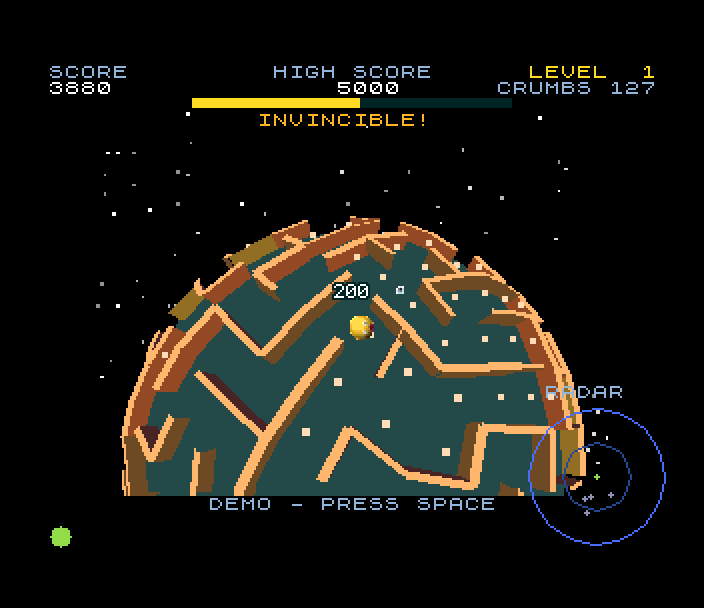
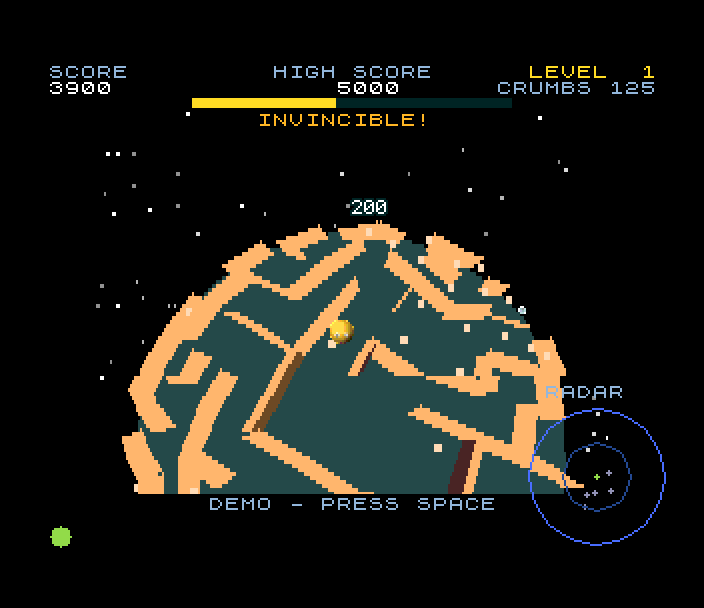
Planet Chomp: the level-1 maze the test checks is in gfx/level1.txt (checked in; build/ isn't in a fresh checkout); README, PROGRESS, docs for the speed pass; screenshots and GIF remade

diff --git a/projects/planet_chomp/README.md b/projects/planet_chomp/README.md
@@ -67,6 +67,12 @@ Changed (marked `port:` in the code):
   normal through the camera). A crumb sits between two corners across its
   cell, 3/4 of the way up the walls (0.56 instead of 0.5). The screen is
   256 x 192, the original's 320 x 240 at 0.8.
+- **Speed.** The view is drawn 96 rows high and the copper shows each row
+  twice. Only cells within ~70 degrees of the camera are drawn (the
+  original draws up to the horizon; the planet's rim shows bare ground).
+  A wall at most a pixel thick on screen is one quad in the top's colour
+  instead of a side and a top. The planet's disc sits in a background copy
+  of the starfield, redrawn only when the camera's height changes.
 - **Sprites in front.** The chomper, spooks and keys are hardware sprites,
   always over the walls (the original sorts them in). Sizes come from 10
   pre-scaled sizes, 4 to 28 pixels.
@@ -85,23 +91,42 @@ What it uses beyond a 48K/128K Spectrum, and why:
 
 | feature | used for | why it's needed |
 |---|---|---|
-| **28 MHz and the Z80N `MUL`** | the original's rules (50 steps a second of 16 x 16 -> 32 vector maths and square roots), the 3D transform of ~120-200 corners a frame (8 x 8 `MUL`s against a Q7 camera matrix patched into the code), the polygon edges' slopes | the corner transform alone takes ~380 raster lines a frame at 28 MHz, more than a whole frame at 3.5 MHz; the logic ~40 lines a step |
+| **28 MHz and the Z80N `MUL`** | the original's rules (50 steps a second of 16 x 16 -> 32 vector maths and square roots), the 3D transform of ~120-200 corners a frame (8 x 8 `MUL`s against a Q7 camera matrix patched into the code), the polygon edges' slopes | the corner transform alone takes ~325 raster lines a frame at 28 MHz, more than a whole frame at 3.5 MHz; the logic ~40 lines a step |
 | **Layer 2, 256 x 192 x 8 bpp, double buffered** | the planet, the maze's walls (8 shades), crumbs, the nest, the stars, in the original's colours | filled polygons in many colours anywhere; the ULA's two colours per 8 x 8 cell can't show shaded walls over a planet |
-| **zxnDMA** | each frame starts as a DMA copy of the starfield (48K in about 10 raster lines); the sprites' patterns are sent by DMA when an actor's texture or size changes | a CPU copy would take a frame by itself |
+| **zxnDMA** | each frame starts as a DMA copy of the background, the starfield and the planet's disc (24K in about 6 raster lines); the sprites' patterns are sent by DMA when an actor's texture or size changes | a CPU copy would take a frame by itself |
 | **hardware sprites** (64 patterns, 70 sprites) | the chomper, spooks, keys (16 x 16 or 32 x 32 quads, patterns streamed from 10 banks of pre-scaled frames), the score popups, the radar's dots, the lives | moving things never touch the Layer 2 picture, and scaling them by depth is a pattern swap |
 | **tilemap** (40 x 32, 4 bpp, over everything) | the HUD, the radar's rings, the power bar, the title, game over, the high scores and the initials, in the original's 320 x 256 layout including the border | text and HUD never have to be drawn into or restored from the 3D picture |
 | **palettes** (Layer 2, sprites, tilemap) | the original's colours in 9 bits; 82 sprite colours; a palette offset per tilemap colour | |
-| **MMU banking** | the code in parts mapped in turn (rules in bank 16, their grid tables in bank 17, the renderer in bank 18 with its corner records and tables in pages 38-40, the sprite/radar code in page 41, the HUD in bank 21); 10 banks of sprite frames, the starfield in 3, the sound | zsdcc's code for the original's rules is 15K, the renderer 12K, the HUD 6K, and the tables ~30K, against 28K free at 0x8000 |
+| **MMU banking** | the code in parts mapped in turn (rules in bank 16, their grid tables in bank 17, the renderer in bank 18 with its corner records and tables in pages 38-40, the sprite/radar code in page 41, the HUD in bank 21); 10 banks of sprite frames, the starfield in 3, the background (stars and disc) in 37-38, the sound | zsdcc's code for the original's rules is 15K, the renderer 12K, the HUD 6K, and the tables ~30K, against 28K free at 0x8000 |
 | **TurboSound** (3 AY chips) | the title tune on chips 0 and 1, the effects on chip 0, the crumbs' plinks on chip 2, the ambience (hum, bubbling) on chip 1 | the original plays crumbs, effects and an ambience loop at the same time on separate Paula channels |
+| **copper** | Layer 2's Y scroll (NextReg 0x17) set every other line: the 96 rows drawn show 192 high | half the rows to fill, the polygons' cost being mostly per row |
 | **raster line** (NextReg 0x1E/0x1F) | the built-in profiler (`pc: perf` lines) | measuring each part of the frame |
 
 ## Frame rate
 
 The logic always runs at the original's 50 steps a second (fixed timestep,
-up to 8 steps a frame). The picture is redrawn when it can: about **4.5-6.5
-frames a second** while playing (4.0-5.3 in the test's bot game) (the profiler's `pc: perf` lines, in a
-frame of 312 raster lines of ~1800 T-states: corners ~380, crumbs ~230,
-wall list ~300, polygon fill ~900, logic ~40 a step). The 3DO renderer on a
+up to 8 steps a frame). The picture is redrawn when it can: about **9-9.5
+frames a second** while playing (the profiler's `pc: perf` lines). A drawn
+frame costs about 1680 raster lines of ~1800 T-states (312 to a 50 Hz
+frame):
+
+| part | lines |
+|---|---|
+| the logic, ~5.4 steps at ~60 lines | ~330 |
+| the corners' transform (~160 of 488, two points each) | ~325 |
+| the crumbs' list | ~190 |
+| the walls' list | ~250 |
+| the fill (walls, crumbs, the nest) | ~400 |
+| camera, sprites and radar, background, sprite patterns | ~185 |
+
+The speed pass took it from 4.5-6.5: drawing 96 rows (fill 930 -> 720),
+the radius cull and the thin walls (fill -> 400, lists -15%), the disc in
+the background (-83). What limits it now is no single part: the logic is
+the original's rules at 50 Hz (a dozen 16 x 16 -> 32 normalises, square
+roots and 32-bit divides a step), and the transform and the two lists
+each walk every corner, cell or wall with a horizon test before culling.
+Ideas not done: cull in clusters of cells (each list visits all of them;
+~150 lines), DMA for long spans (few are long now). The 3DO renderer on a
 16 MHz Falcon managed 1 fps and on a 32 MHz 68060 about 9.
 
 ## How it's built
@@ -150,9 +175,8 @@ host comparison. `.venv/bin/python projects/planet_chomp/tools/profile.py
 
 ## Known issues
 
-- 4.5-6.5 frames a second: playable (the game runs at its real speed) but
-  jerky. The profile is now flat across the transform, the lists and the
-  fill.
+- About 9 frames a second, below the 12 aimed for (see Frame rate): the
+  game runs at its real speed, but the picture is a little jerky.
 - Sprites are always over the walls: a spook behind a wall shows in front
   of it.
 - Z, X, C, H and B are read once a frame: a very short tap can be missed;

diff --git a/PROGRESS.md b/PROGRESS.md
@@ -199,7 +199,11 @@ and is checked by `tools/zxdev/tests/test_features.py` (82 checks) or
   the lattice corners, walls as quads from their corners, crumbs and walls in
   depth buckets, a clipped quad filler (draw.asm); sprites from the original's
   textures at 10 sizes; tilemap HUD and radar; TurboSound effects and a title
-  tune; high-score table. Logic 50 Hz, picture 4.5-6.5 fps. SDK: vec3, isqrt32 3x.
+  tune; high-score table. Logic 50 Hz, picture ~9 fps after a speed pass
+  (96 rows shown doubled by the copper, cull beyond ~70 deg, thin far walls
+  as one quad, the disc in a cached background; 12 not reached: the 50 Hz
+  rules ~330 lines a drawn frame, the lists walk every corner/cell/wall).
+  SDK: vec3, isqrt32 3x.
 
 - **Marble Tilt** (Next): the original's amiga3d rules unchanged on 16.16
   (`fix16.h`, the engine's fixed point bit for bit: the original's whole

diff --git a/docs/48k-vs-next.md b/docs/48k-vs-next.md
@@ -87,7 +87,8 @@ the 48K:
 - TurboSound plays a four-channel MOD and the effects at once
 - Planet Chomp draws a perspective 3D sphere every frame: `MUL` rotates the
   maze's lattice corners by a camera matrix patched into the code, Layer 2
-  takes the polygons, DMA copies the starfield in, sprites carry everything
+  takes the polygons at half height (the copper doubles each row), DMA copies
+  the starfield and the planet's disc in, sprites carry everything
   that moves; its rules are the original's 32-bit code on 16-bit vectors
 - Spectral Keep draws each isometric room once into Layer 2 and moves
   everything as sprites; a sprite behind scenery has the scenery's
